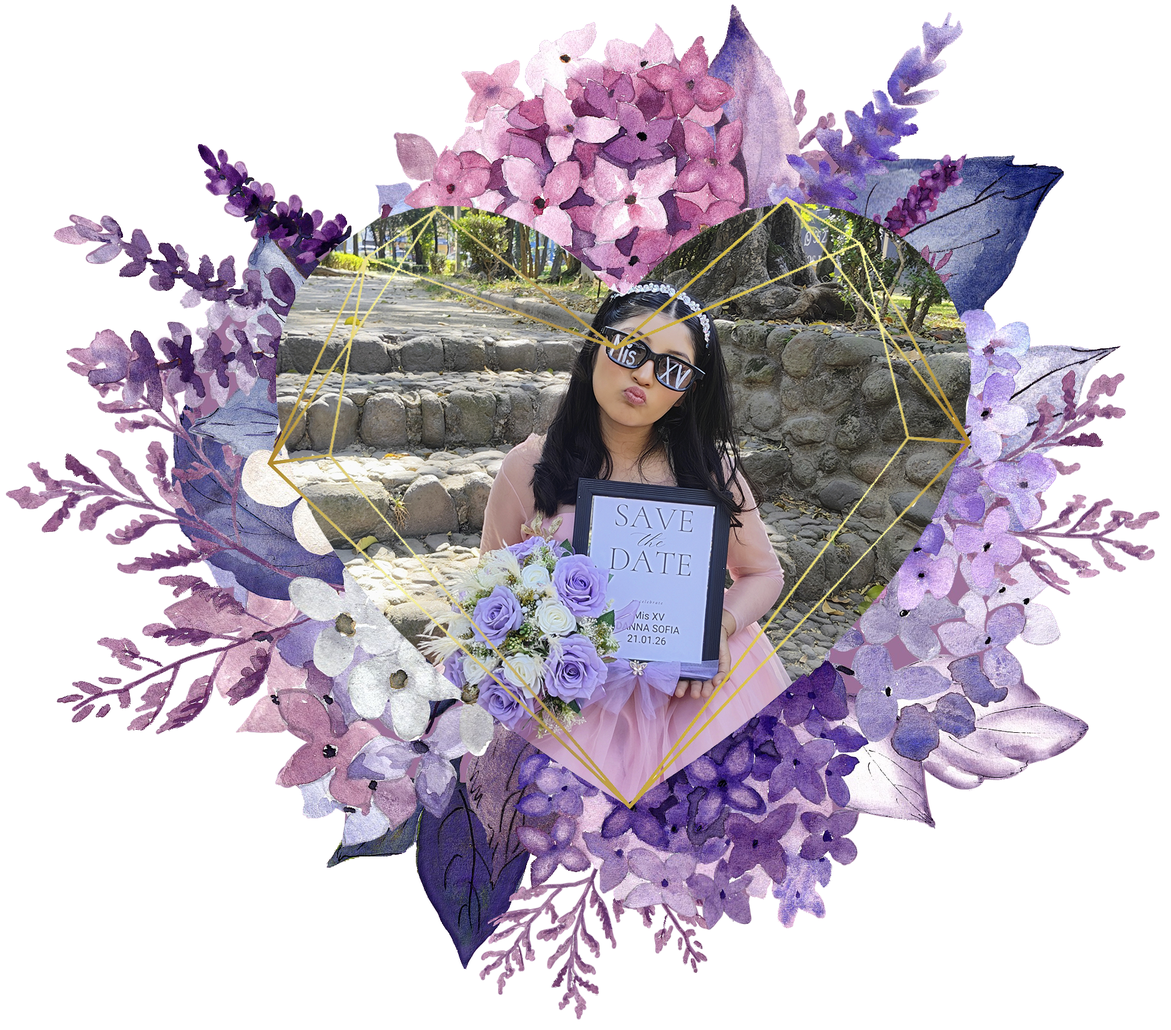
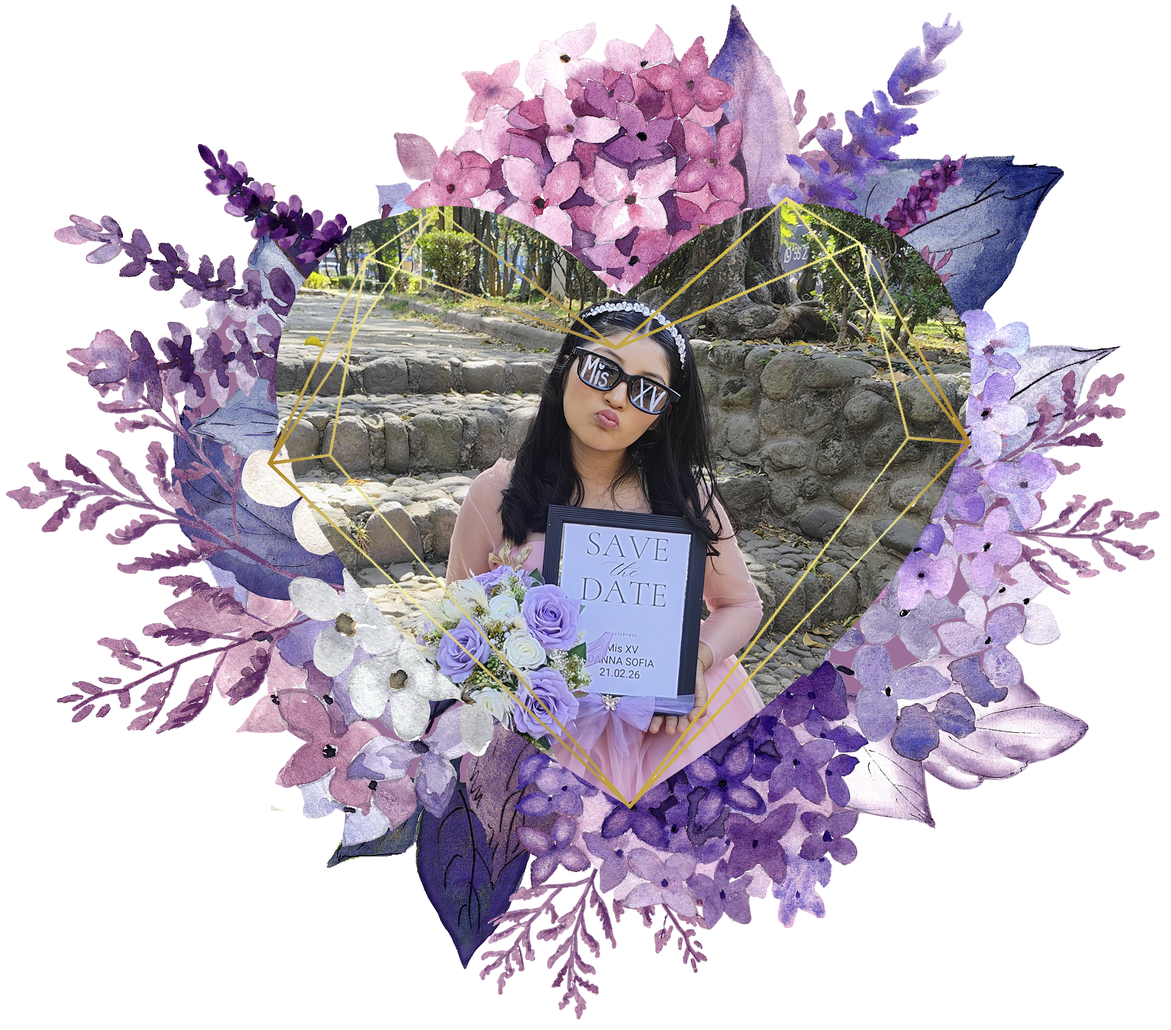
calendario

Changed region(s): [[0.2164, 0.1855, 0.8348, 0.7727]]

diff --git a/src/App.tsx b/src/App.tsx
@@ -127,6 +127,9 @@ function App() {
             <p className="text-center lg:text-left text-6xl! lg:text-8xl!">21</p>
             <p className="text-center lg:text-left text-7xl! lg:text-9xl! font-secundary">Febrero</p>
             <p className="text-center lg:text-left text-6xl! lg:text-8xl!">2026</p>
+            <picture>
+              <img src="./calendario.png" alt="Calendario" className="fade-in block lg:max-w-[90%] mt-12" width={639} height={720} />
+            </picture>
           </div>
 
         </div>
@@ -203,7 +206,7 @@ function App() {
         </Swiper>
       </section>
 
-      <section id="padrinos" className="py-10 lg:py-16 mt-12">
+      <section id="padrinos" className="py-10 lg:py-16 lg:mt-12">
         <div className="mx-auto max-w-11/12 lg:max-w-[1500px]">
           <h2 className="fade-in text-white! text-base/5 mb-10!">Te esperamos en compañía de...</h2>
 
